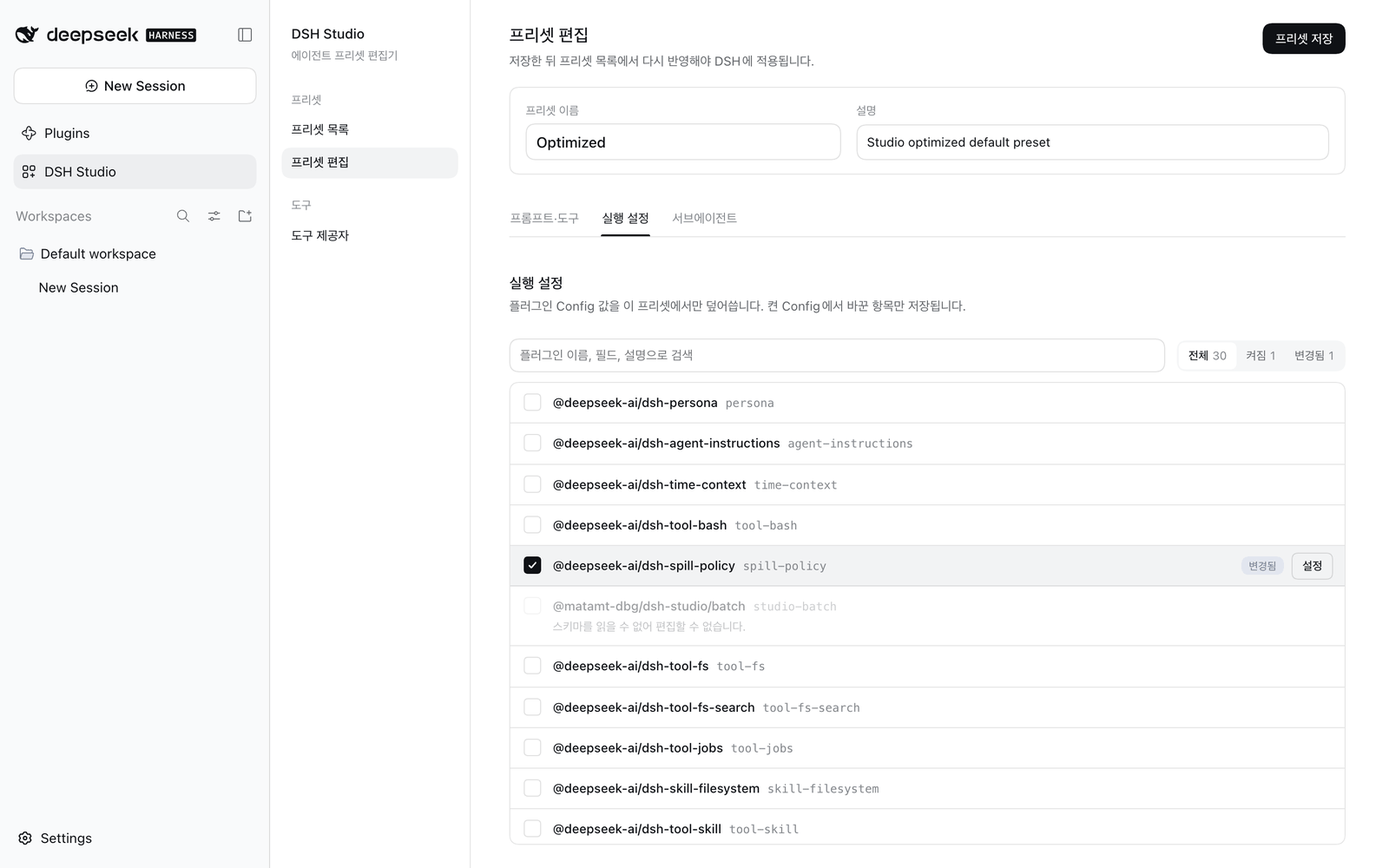
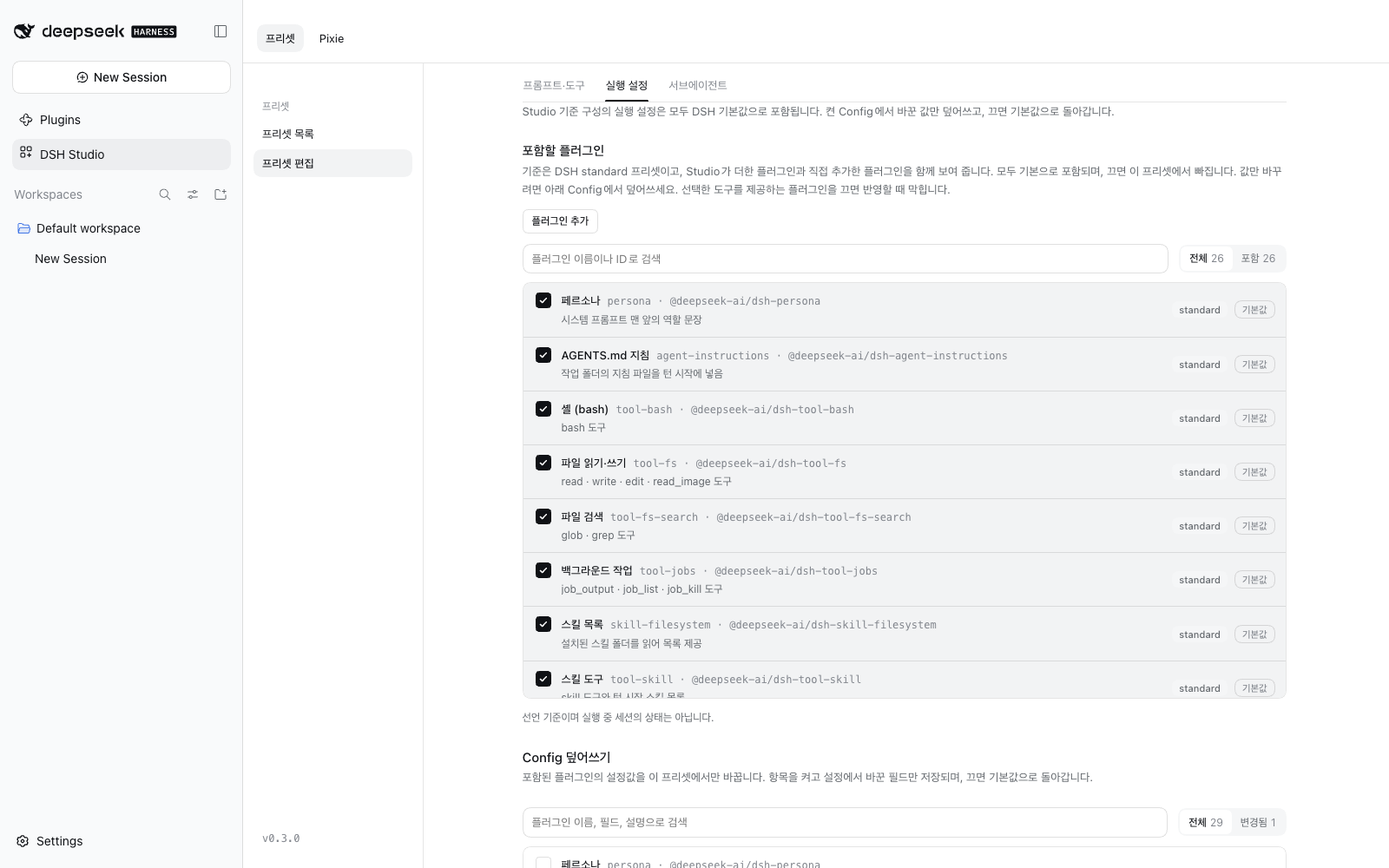
docs(studio): refresh guide screenshots and text for 0.3.0, add an introduction, title the Config override list

diff --git a/studio/src/optimization-prototype.tsx b/studio/src/optimization-prototype.tsx
@@ -66,7 +66,7 @@ export function OptimizationPrototype({ locale, catalog, catalogError, onPreview
   const agentPage = <RoleEditor key={draftKey} locale={locale} roles={agents} onChange={setAgents} loadModels={presetActions?.models} defaultPersona={defaultPersona} tools={toolChoices} hiddenTools={hiddenFromSubagents} onHiddenToolsChange={setHiddenFromSubagents} delegates={delegates} />;
   const tabs = [
     { id: 'tools', label: t('프롬프트·도구', 'Prompts & tools', '提示词与工具'), content: <PromptToolsPrototype key={draftKey} initialRequest={editing?.request} locale={locale} catalog={catalog} catalogError={catalogError} onPreview={onPreview ? request => onPreview({ ...request, configOverrides, ...(configExclusions.length ? { configExclusions } : {}) }) : undefined} configOverrides={configOverrides} onConfigOverridesChange={setConfigDraft} previewKey={JSON.stringify([configOverrides, configExclusions])} onRequestChange={setRequest} prompt={common.prompt} onPromptChange={value => setCommon(c => ({ ...c, prompt: value }))} provided={provided} onProvidedChange={setProvided} /> },
-    { id: 'convenience', label: t('실행 설정', 'Execution settings', '执行设置'), content: <><SectionHead title={t('실행 설정', 'Execution settings', '执行设置')} description={t('Studio 기준 구성의 실행 설정은 모두 DSH 기본값으로 포함됩니다. 켠 Config에서 바꾼 값만 덮어쓰고, 끄면 기본값으로 돌아갑니다.', 'Every execution setting in the Studio base composition is included with DSH defaults. Only the values you change in an enabled Config are overridden; turning it off returns to the defaults.', 'Studio 基础组成中的执行设置均以 DSH 默认值包含。只覆盖已启用 Config 中修改的值；关闭即恢复默认值')} /><FeatureInclusion locale={locale} entries={catalog?.plugins ?? []} overrides={configOverrides} excluded={configExclusions} origins={catalog?.origins} base={catalog?.base} added={catalog?.added} actions={extensionActions} onChange={next => { setConfigDraft(next.overrides); setConfigExclusions(next.excluded); }} /><ConfigEditor locale={locale} entries={(catalog?.plugins ?? []).filter(entry => !configExclusions.includes(entry.id))} value={configOverrides} onChange={setConfigDraft} /></> },
+    { id: 'convenience', label: t('실행 설정', 'Execution settings', '执行设置'), content: <><SectionHead title={t('실행 설정', 'Execution settings', '执行设置')} description={t('Studio 기준 구성의 실행 설정은 모두 DSH 기본값으로 포함됩니다. 켠 Config에서 바꾼 값만 덮어쓰고, 끄면 기본값으로 돌아갑니다.', 'Every execution setting in the Studio base composition is included with DSH defaults. Only the values you change in an enabled Config are overridden; turning it off returns to the defaults.', 'Studio 基础组成中的执行设置均以 DSH 默认值包含。只覆盖已启用 Config 中修改的值；关闭即恢复默认值')} /><FeatureInclusion locale={locale} entries={catalog?.plugins ?? []} overrides={configOverrides} excluded={configExclusions} origins={catalog?.origins} base={catalog?.base} added={catalog?.added} actions={extensionActions} onChange={next => { setConfigDraft(next.overrides); setConfigExclusions(next.excluded); }} /><SectionHead title={t('Config 덮어쓰기', 'Config overrides', 'Config 覆盖')} description={t('포함된 플러그인의 설정값을 이 프리셋에서만 바꿉니다. 항목을 켜고 설정에서 바꾼 필드만 저장되며, 끄면 기본값으로 돌아갑니다.', 'Change settings of included plugins for this preset only. Check an entry and edit it; only changed fields are saved, and unchecking returns to the defaults.', '仅为此预设修改已包含插件的设置。启用条目并编辑，只保存修改的字段；关闭即恢复默认值')} /><ConfigEditor locale={locale} entries={(catalog?.plugins ?? []).filter(entry => !configExclusions.includes(entry.id))} value={configOverrides} onChange={setConfigDraft} /></> },
     { id: 'agents', label: t('서브에이전트', 'Subagent settings', '子代理设置'), content: agentPage },
   ];
   const tabId = React.useId();

diff --git a/studio/src/preset-manager.tsx b/studio/src/preset-manager.tsx
@@ -81,7 +81,7 @@ export function PresetList({ locale, api, revision, onEdit, onCopy, changes }: {
       {item.missingFeatures && item.missingFeatures.length > 0 && <div className="studio-inline-actions"><Badge tone="warning">{t('기능 누락', 'Missing features', '缺少功能')}</Badge><span className="studio-card-meta">{item.missingFeatures.map(name => featureLabel(name, locale)).join(', ')}</span>
         <Button small disabled={busy || !api || !!item.readOnly} onClick={() => setRecovering(item)}>{t('복구', 'Restore', '恢复')}</Button></div>}
       <p className="studio-card-meta">{t('도구', 'Tools', '工具')} {item.request.tools.length} · {t('서브에이전트 역할', 'Subagent roles', '子代理角色')} {Array.isArray(item.agents) ? item.agents.length : 0}</p>
-      {item.readOnly ? <p className="studio-card-meta studio-card-note">{t('이 프로필에서 쓸 수 있는 모든 도구를 담은 기준 프리셋입니다. 편집하거나 삭제할 수 없습니다.', 'Reference preset with every tool available in this profile. It cannot be edited or deleted.', '包含此配置文件中所有可用工具的基准预设，无法编辑或删除')}</p> : <div className="studio-card-footer">
+      {item.readOnly ? <p className="studio-card-meta studio-card-note">{t('DSH standard 프리셋에 Studio 플러그인과 직접 추가한 플러그인을 더한 기준 프리셋입니다. 편집하거나 삭제할 수 없습니다.', 'Reference preset: DSH standard plus Studio plugins and the ones you added. It cannot be edited or deleted.', '基准预设：DSH standard 加上 Studio 插件和您添加的插件，无法编辑或删除')}</p> : <div className="studio-card-footer">
         <Button small disabled={busy || item.readOnly || item.template || !onEdit} title={item.template ? t('기본 제공 프리셋은 편집할 수 없습니다. 복사해서 고쳐 쓰세요.', 'Built-in presets cannot be edited. Create a copy to customize it.', '内置预设无法编辑，请创建副本后修改') : undefined} onClick={() => onEdit?.(item)}>{t('편집', 'Edit', '编辑')}</Button>
         <Button small disabled={busy || !onCopy} onClick={() => onCopy?.(item)}>{t('복사', 'Create copy', '创建副本')}</Button>
         <Button small disabled={busy || !api || item.readOnly || item.nonDeletable} title={item.nonDeletable ? t('기본 제공 프리셋은 삭제할 수 없습니다.', 'Built-in presets cannot be deleted.', '内置预设无法删除') : undefined} onClick={() => { setDeleting(item); setConfirming(true); }}>{t('삭제', 'Delete', '删除')}</Button>

diff --git a/studio/release/docs/introduction.ko.md b/studio/release/docs/introduction.ko.md
@@ -1,0 +1,121 @@
+# DSH Studio 소개
+
+[English](introduction.md) | 한국어
+
+DSH Studio는 DeepSeek Harness(DSH)의 **에이전트 프리셋**을 화면에서 만들고 고치는 플러그인입니다. YAML을 직접 쓰지 않고, 에이전트가 받을 지침·도구·플러그인 설정·서브에이전트 역할을 한곳에서 정한 뒤 DSH에 반영합니다. 자세한 화면 설명은 [사용 가이드](guide.ko.md)에 있습니다.
+
+## 목차
+
+- [무엇을 해결하나](#무엇을-해결하나)
+- [프리셋은 어떻게 만들어지나](#프리셋은-어떻게-만들어지나)
+- [모델이 실제로 받는 것](#모델이-실제로-받는-것)
+- [기본값, 덮어쓰기, 제외](#기본값-덮어쓰기-제외)
+- [도구는 시작 구성일 뿐 차단 목록이 아님](#도구는-시작-구성일-뿐-차단-목록이-아님)
+- [Optimized](#optimized)
+- [바뀌었을 때 Studio가 하는 일](#바뀌었을-때-studio가-하는-일)
+- [Studio가 하지 않는 것](#studio가-하지-않는-것)
+
+## 무엇을 해결하나
+
+DSH 프리셋은 플러그인 목록과 설정을 담은 선언입니다. 강력하지만 다음이 어렵습니다.
+
+- 어떤 도구와 지침이 모델에 전달되는지 미리 보기
+- 기본 프리셋을 조금만 바꾸면서 나머지는 DSH 기본값을 그대로 따르게 하기
+- 도구 설명이나 실행 기본값을 프리셋마다 다르게 하기
+- 서브에이전트를 역할별로 나누어 맡기기
+
+Studio는 이것을 화면으로 다루고, 결과를 Studio 소유의 DSH 프리셋으로 등록합니다. DSH 기본 프리셋이나 프로필의 패키지 목록은 건드리지 않습니다.
+
+## 프리셋은 어떻게 만들어지나
+
+모든 Studio 프리셋은 **Studio Master** 위에 변경분만 얹어 만듭니다.
+
+```text
+DSH standard 프리셋 (실행 중인 DSH가 선언한 그대로)
+  + Studio가 더하는 플러그인   read_batch, spill-policy, tool-cordis, plugin-manager
+  + 직접 추가한 플러그인       실행 설정 → 플러그인 추가
+  ───────────────────────────────────────────────
+  = Studio Master (읽기 전용 기준)
+
+Studio Master
+  − 포함하지 않을 플러그인     실행 설정 → 포함할 플러그인
+  + Config 덮어쓰기            바꾼 필드만
+  + 도구 선택·도구 설명 편집   프롬프트·도구
+  + 추가 지침, persona
+  + subagent_role과 역할       서브에이전트 (standard의 subagent 도구를 대체)
+  ───────────────────────────────────────────────
+  = 내 프리셋 → DSH에 반영 → 새 세션에서 선택
+```
+
+Studio Master가 DSH `standard`를 따르므로, DSH를 업데이트하면 기준도 함께 바뀝니다. 화면의 각 플러그인에는 출처 배지(`standard`, `Studio`, `추가함`)가 붙어 어디서 온 것인지 알 수 있습니다.
+
+## 모델이 실제로 받는 것
+
+세션에서 모델이 받는 내용은 종류에 따라 들어가는 시점이 다릅니다. **프롬프트 미리보기**는 이 중 세 가지를 나눠 보여 줍니다.
+
+| 종류 | 들어가는 시점 | 예 | 미리보기 |
+|---|---|---|---|
+| 시스템 프롬프트 | 매 요청 | persona, 도구 사용 지침, 추가 지침, 계획 모드 안내 | **시스템 프롬프트·도구** |
+| 도구 스키마 | 매 요청 | read, bash, subagent_role | **시스템 프롬프트·도구** |
+| 런타임 컨텍스트 | 매 요청, 시스템 프롬프트 뒤 | 권한·샌드박스 상태, 서브에이전트 위임 안내 | **런타임 컨텍스트** |
+| 턴 시작 메시지 | 턴 시작 | AGENTS.md 지침, 현재 시각, 스킬 목록 | **턴 시작 내용** (예시와 설정 편집) |
+| 도구 결과 뒤 안내 | 파일을 읽거나 고친 뒤 | 하위 폴더의 AGENTS.md | 나오지 않음 |
+| 대화 정리 | 한도에 가까울 때 | 자동 압축 요약, 긴 도구 결과 줄이기 | 나오지 않음 |
+
+AGENTS.md 지침이나 현재 시각은 시스템 프롬프트가 아니라 턴마다 대화 메시지로 들어갑니다. 그래서 내용은 실행할 때 파일과 시각에서 만들어지고, Studio에서는 그 내용을 정하는 설정(`maxBytes`, 지침 파일 후보, `timeZone` 등)을 바꿉니다.
+
+## 기본값, 덮어쓰기, 제외
+
+실행 설정의 각 플러그인은 세 상태 중 하나입니다.
+
+| 상태 | 저장되는 것 | 결과 |
+|---|---|---|
+| **기본값** | 없음 | 플러그인이 DSH 기본값으로 포함됩니다 |
+| **덮어쓰기** | 바꾼 필드만 | 포함되며 그 필드만 바뀝니다. 덮어쓰기를 끄면 기본값으로 돌아갑니다 |
+| **제외** | 제외 목록에 ID | 플러그인이 이 프리셋에서 빠집니다 |
+
+예를 들어 자동 압축을 다루는 방법은 두 가지입니다.
+
+- `compaction-basic`의 `auto`를 `false`로 **덮어쓰기**: 압축 기능과 `/compact`는 남고 자동 실행만 꺼집니다.
+- `compaction-basic`을 **제외**: 압축 기능이 빠지고, 이에 의존하는 `/compact`도 함께 빠집니다.
+
+덮어쓰기를 끄는 것은 "끄기"가 아니라 "기본값으로 돌아가기"입니다. 기능을 빼려면 포함 목록에서 체크를 끕니다.
+
+## 도구는 시작 구성일 뿐 차단 목록이 아님
+
+프리셋에서 고른 도구는 세션의 **시작 도구 구성**입니다.
+
+- 고르지 않은 도구는 세션이 시작될 때 보이지 않습니다.
+- 세션이 시작된 뒤 다른 플러그인이 새 이름으로 등록하는 도구는 DSH 기본 흐름대로 쓸 수 있습니다.
+- 예약 작업처럼 DSH가 세션마다 직접 붙이는 도구는 프리셋 도구 목록에 나오지 않지만, 켜져 있으면 세션에서 쓸 수 있습니다.
+- 고른 도구를 제공하는 플러그인을 빼면 반영 단계에서 막아, 도구가 몰래 사라지지 않게 합니다.
+
+DSH의 승인·파일 접근·서브에이전트 제한 같은 안전 정책은 Studio가 바꾸지 않습니다.
+
+## Optimized
+
+Studio에는 코딩 에이전트용 기본 프리셋 **Optimized**가 들어 있습니다.
+
+- 자주 쓰는 도구 22개로 시작 구성을 고정합니다. 다른 플러그인을 설치해도 선택이 늘어나지 않습니다.
+- 서브에이전트 도구를 `subagent_role` 하나로 합칩니다.
+- 독립적인 읽기를 묶고, 백그라운드 작업을 폴링하지 않고 기다리며, 확인 범위를 작업에 맞추도록 지침과 도구 설명을 다듬었습니다.
+- 대화 압축, AGENTS.md 지침, 스킬 목록 같은 `standard`의 기능은 그대로 포함됩니다.
+
+Optimized는 잠겨 있고 Studio가 시작할 때마다 다시 맞춥니다. 고치려면 복사해서 씁니다. 방법은 [Optimized를 내 작업에 맞게 고치기](guide.ko.md#optimized를-내-작업에-맞게-고치기)를 보세요.
+
+## 바뀌었을 때 Studio가 하는 일
+
+| 상황 | Studio의 동작 |
+|---|---|
+| DSH 업데이트, 플러그인 설치·삭제로 도구나 플러그인이 바뀜 | 다음 시작 때 목록 위에 변경 안내(`+` 추가, `-` 제거, `~` 형식 변경). **확인하고 정리**를 누르기 전에는 프리셋을 바꾸지 않습니다 |
+| 정리를 확인함 | 사라진 항목의 선택·설명·덮어쓰기만 지우고, 반영된 프리셋은 **다시 반영 필요**로 표시합니다 |
+| 수집이 일부 실패함 | 이전 기준을 그대로 두고, 아무것도 지우지 않습니다 |
+| 이전 버전이 기능을 빠뜨리고 반영함 | 카드에 **기능 누락**을 표시하고, **복구**로 확인 후 다시 반영합니다 |
+| 이미 실행 중인 세션 | 프리셋 편집은 자동으로 적용되지 않습니다. 새 세션부터 적용됩니다 |
+
+## Studio가 하지 않는 것
+
+- DSH 본체나 다른 프리셋을 수정하지 않습니다.
+- 패키지를 설치하지 않습니다. 플러그인은 프로필에 먼저 설치해야 합니다.
+- 압축 알고리즘이나 도구 동작을 바꾸지 않습니다. 설명과 설정만 바꿉니다.
+- 실행 중인 세션을 다시 구성하지 않습니다.

diff --git a/studio/release/docs/introduction.md b/studio/release/docs/introduction.md
@@ -1,0 +1,121 @@
+# DSH Studio introduction
+
+English | [한국어](introduction.ko.md)
+
+DSH Studio is a plugin for building and editing DeepSeek Harness (DSH) **agent presets** on screen. Instead of writing YAML, you set the instructions, tools, plugin settings and subagent roles an agent gets in one place, then apply the result to DSH. The [user guide](guide.md) walks through each screen.
+
+## Contents
+
+- [What it solves](#what-it-solves)
+- [How a preset is built](#how-a-preset-is-built)
+- [What the model actually receives](#what-the-model-actually-receives)
+- [Defaults, overrides and exclusions](#defaults-overrides-and-exclusions)
+- [Tools are a starting set, not a block list](#tools-are-a-starting-set-not-a-block-list)
+- [Optimized](#optimized)
+- [What Studio does when things change](#what-studio-does-when-things-change)
+- [What Studio does not do](#what-studio-does-not-do)
+
+## What it solves
+
+A DSH preset is a declaration of plugins and their settings. It is powerful, but some things are hard:
+
+- seeing in advance which tools and instructions reach the model;
+- changing a stock preset a little while everything else keeps following DSH defaults;
+- giving each preset its own tool descriptions and execution defaults;
+- splitting delegation across subagent roles.
+
+Studio handles these on screen and registers the result as a Studio-owned DSH preset. It does not touch DSH's own presets or your profile's package list.
+
+## How a preset is built
+
+Every Studio preset is Studio Master plus the differences you choose.
+
+```text
+DSH standard preset (as the running DSH declares it)
+  + plugins Studio adds        read_batch, spill-policy, tool-cordis, plugin-manager
+  + plugins you add            Execution settings → Add plugin
+  ───────────────────────────────────────────────
+  = Studio Master (read-only base)
+
+Studio Master
+  − plugins you leave out      Execution settings → Included plugins
+  + Config overrides           changed fields only
+  + tool selection and edits   Prompts & tools
+  + additional instructions, persona
+  + subagent_role and roles    Subagent settings (replaces standard's subagent tools)
+  ───────────────────────────────────────────────
+  = your preset → Apply to DSH → choose it in a new session
+```
+
+Because Studio Master follows DSH `standard`, the base moves with DSH updates. Each plugin on screen carries an origin badge (`standard`, `Studio`, `Added`).
+
+## What the model actually receives
+
+What a session sends the model arrives at different times depending on its kind. **Preview prompt** shows three of them separately.
+
+| Kind | When | Examples | Preview |
+|---|---|---|---|
+| System prompt | every request | persona, tool usage guidance, additional instructions, plan mode | **System prompt & tools** |
+| Tool schemas | every request | read, bash, subagent_role | **System prompt & tools** |
+| Runtime context | every request, after the system prompt | permissions and sandbox state, delegation notes | **Runtime context** |
+| Turn-start messages | each turn start | AGENTS.md instructions, current time, skill list | **Turn start** (examples and settings) |
+| Notes after tool results | after reading or editing files | a subfolder AGENTS.md | not shown |
+| Conversation upkeep | near the context limit | compaction summaries, trimmed tool results | not shown |
+
+AGENTS.md instructions and the current time are not part of the system prompt; they enter as conversation messages each turn. Their text comes from files and the clock at run time, so in Studio you change the settings that shape it (`maxBytes`, instruction file candidates, `timeZone` and so on).
+
+## Defaults, overrides and exclusions
+
+Each plugin in Execution settings is in one of three states.
+
+| State | What is saved | Result |
+|---|---|---|
+| **Defaults** | nothing | the plugin is included with DSH defaults |
+| **Override** | changed fields only | included, with only those fields changed; turning the override off returns to the defaults |
+| **Excluded** | its ID in the exclusion list | the plugin is left out of this preset |
+
+For example, there are two ways to handle automatic compaction:
+
+- **Override** `auto` to `false` on `compaction-basic`: compaction and `/compact` stay; only the automatic run stops.
+- **Exclude** `compaction-basic`: compaction leaves, and `/compact`, which depends on it, leaves too.
+
+Turning an override off means "back to the default", not "off". To leave a feature out, uncheck it in Included plugins.
+
+## Tools are a starting set, not a block list
+
+The tools a preset selects are the session's **starting tool set**.
+
+- Unselected tools are hidden when the session starts.
+- Tools another plugin registers under a new name after the session starts follow DSH's normal flow and can be used.
+- Tools DSH attaches to each session directly, such as schedules, do not appear in the preset tool list but can be used when enabled.
+- Leaving out a plugin that provides a selected tool is blocked at apply time, so tools never disappear silently.
+
+Studio does not change DSH's safety policies such as approvals, file access and subagent limits.
+
+## Optimized
+
+Studio ships **Optimized**, a built-in preset for coding agents.
+
+- It fixes a starting set of 22 everyday tools; installing more plugins never enlarges the selection.
+- It folds subagent tools into a single `subagent_role`.
+- Its instructions and tool descriptions are tuned so the model batches independent reads, waits on background work instead of polling, and keeps checks proportional to the task.
+- `standard` features such as compaction, AGENTS.md instructions and the skill catalog stay included.
+
+Optimized is locked and realigned each time Studio starts. Copy it to customize; see [Adapt Optimized to your work](guide.md#adapt-optimized-to-your-work).
+
+## What Studio does when things change
+
+| Situation | What Studio does |
+|---|---|
+| A DSH update or a plugin install or removal changes tools or plugins | On the next start, a notice above the list (`+` added, `-` removed, `~` schema changed). Presets do not change until you select **Confirm and clean** |
+| You confirm the cleanup | Only the missing items' selections, descriptions and overrides are removed; applied presets are marked **Needs reapply** |
+| Part of the collection fails | The previous baseline is kept and nothing is deleted |
+| An earlier version applied a preset without some features | The card shows **Missing features**; **Restore** reapplies after you confirm |
+| A session is already running | Preset edits are not applied to it; they take effect in new sessions |
+
+## What Studio does not do
+
+- It does not modify DSH itself or other presets.
+- It does not install packages; install plugins in the profile first.
+- It does not change compaction algorithms or tool behavior; it changes descriptions and settings.
+- It does not reconfigure running sessions.

diff --git a/studio/release/docs/guide.md b/studio/release/docs/guide.md
@@ -2,7 +2,7 @@
 
 English | [한국어](guide.ko.md)
 
-DSH Studio is a page inside the DeepSeek Harness web GUI for building **agent presets**: which tools an agent sees, what instructions it starts with, how its plugins are configured, and which specialist subagents it can delegate to. A preset you apply appears in DSH's preset picker for new sessions.
+DSH Studio is a page inside the DeepSeek Harness web GUI for building **agent presets**: which tools an agent sees, what instructions it starts with, how its plugins are configured, and which specialist subagents it can delegate to. A preset you apply appears in DSH's preset picker for new sessions. For the overall model, read the [introduction](introduction.md) first.
 
 - [Install and open Studio](#install-and-open-studio)
 - [Preset list](#preset-list)
@@ -104,6 +104,8 @@ Edited tools are marked **Modified**. Changes apply to this preset only.
 - **Runtime context**: the current state appended after the system prompt on every request (permissions, sandbox and so on), by plugin. It depends on session state, so the values are examples.
 - **Turn start**: the AGENTS.md instructions, current time and skill list added as conversation messages at each turn. They are examples made with the folder and time Studio runs in now. The text comes from files or the clock and cannot be edited; the settings that shape it (`timeZone`, `maxBytes`, instruction file candidates and so on) are editable right below. They are the same values as Execution settings, and **Reset** returns to the default.
 
+![Turn start](images/en/preview-turn-start.png)
+
 Content that appears only while running, such as notes after tool results (a subfolder AGENTS.md) or compaction summaries, is not previewed. If you change settings while the preview is open, it tells you to run it again.
 
 ### Execution settings
@@ -112,7 +114,13 @@ Content that appears only while running, such as notes after tool results (a sub
 
 Execution settings has two parts.
 
+![Included plugins with automatic compaction left out](images/en/plugin-exclusion.png)
+
 **Included plugins**: every plugin in Studio Master is included in the preset by default. Each row shows its origin (`standard`, `Studio`, `Added`) and state (**Defaults**, **Override**, **Excluded**). Uncheck a row to leave that plugin out of this preset. Plugins that need it leave with it (removing automatic compaction also removes `/compact`). Applying is blocked if a selected tool loses its plugin. **Add plugin** adds or removes a package installed in your profile, by name, in Studio Master. Activation is checked first, and a failure keeps the previous state.
+
+![Add plugin](images/en/add-plugin.png)
+
+![Config overrides](images/en/config-overrides.png)
 
 **Config**: override values of included plugins for this preset only — for example, how much tool output stays inline before it is saved to a file (`spill-policy`). Check an entry and **Edit** its fields; only changed fields are saved, and unchecking returns to the defaults. Leaving a plugin out happens in Included plugins above. To turn off only automatic compaction, override `auto` to `false` here (`/compact` stays). Plugins whose settings cannot be read are shown disabled, and so are the `tool-subagent` Configs, which `subagent_role` replaces.
 

diff --git a/studio/release/README.md b/studio/release/README.md
@@ -67,7 +67,7 @@ Restart the web GUI or the app, then open **DSH Studio** from the sidebar. Each 
 |---|---|---|
 | ![Tools](docs/images/en/tools.png) | ![Preview](docs/images/en/prompt-preview.png) | ![Roles](docs/images/en/role-editor.png) |
 
-**User guide: [English](docs/guide.md) · [한국어](docs/guide.ko.md)**
+**Introduction: [English](docs/introduction.md) · [한국어](docs/introduction.ko.md)** · **User guide: [English](docs/guide.md) · [한국어](docs/guide.ko.md)**
 
 ## Quick start
 
@@ -78,7 +78,7 @@ Restart the web GUI or the app, then open **DSH Studio** from the sidebar. Each 
 
 Presets are stored per profile in `studio-data/`. Applying a preset registers a Studio-owned DSH agent preset; it never edits other presets or the profile's packages.
 
-A preset runs only with the tools it selects. If the profile does not provide one of them (for example `load_workspace_dependencies` outside the desktop app), applying or starting the preset fails instead of silently dropping the tool. See [Tools that depend on your profile](docs/guide.md#tools-that-depend-on-your-profile).
+The tools a preset selects are the session's starting tool set. If the profile does not provide one of them (for example `load_workspace_dependencies` outside the desktop app), applying the preset fails instead of silently dropping the tool. Tools that DSH or other plugins add to a running session, such as schedules, stay usable. See [Tools that depend on your profile](docs/guide.md#tools-that-depend-on-your-profile).
 
 ## Development
 
